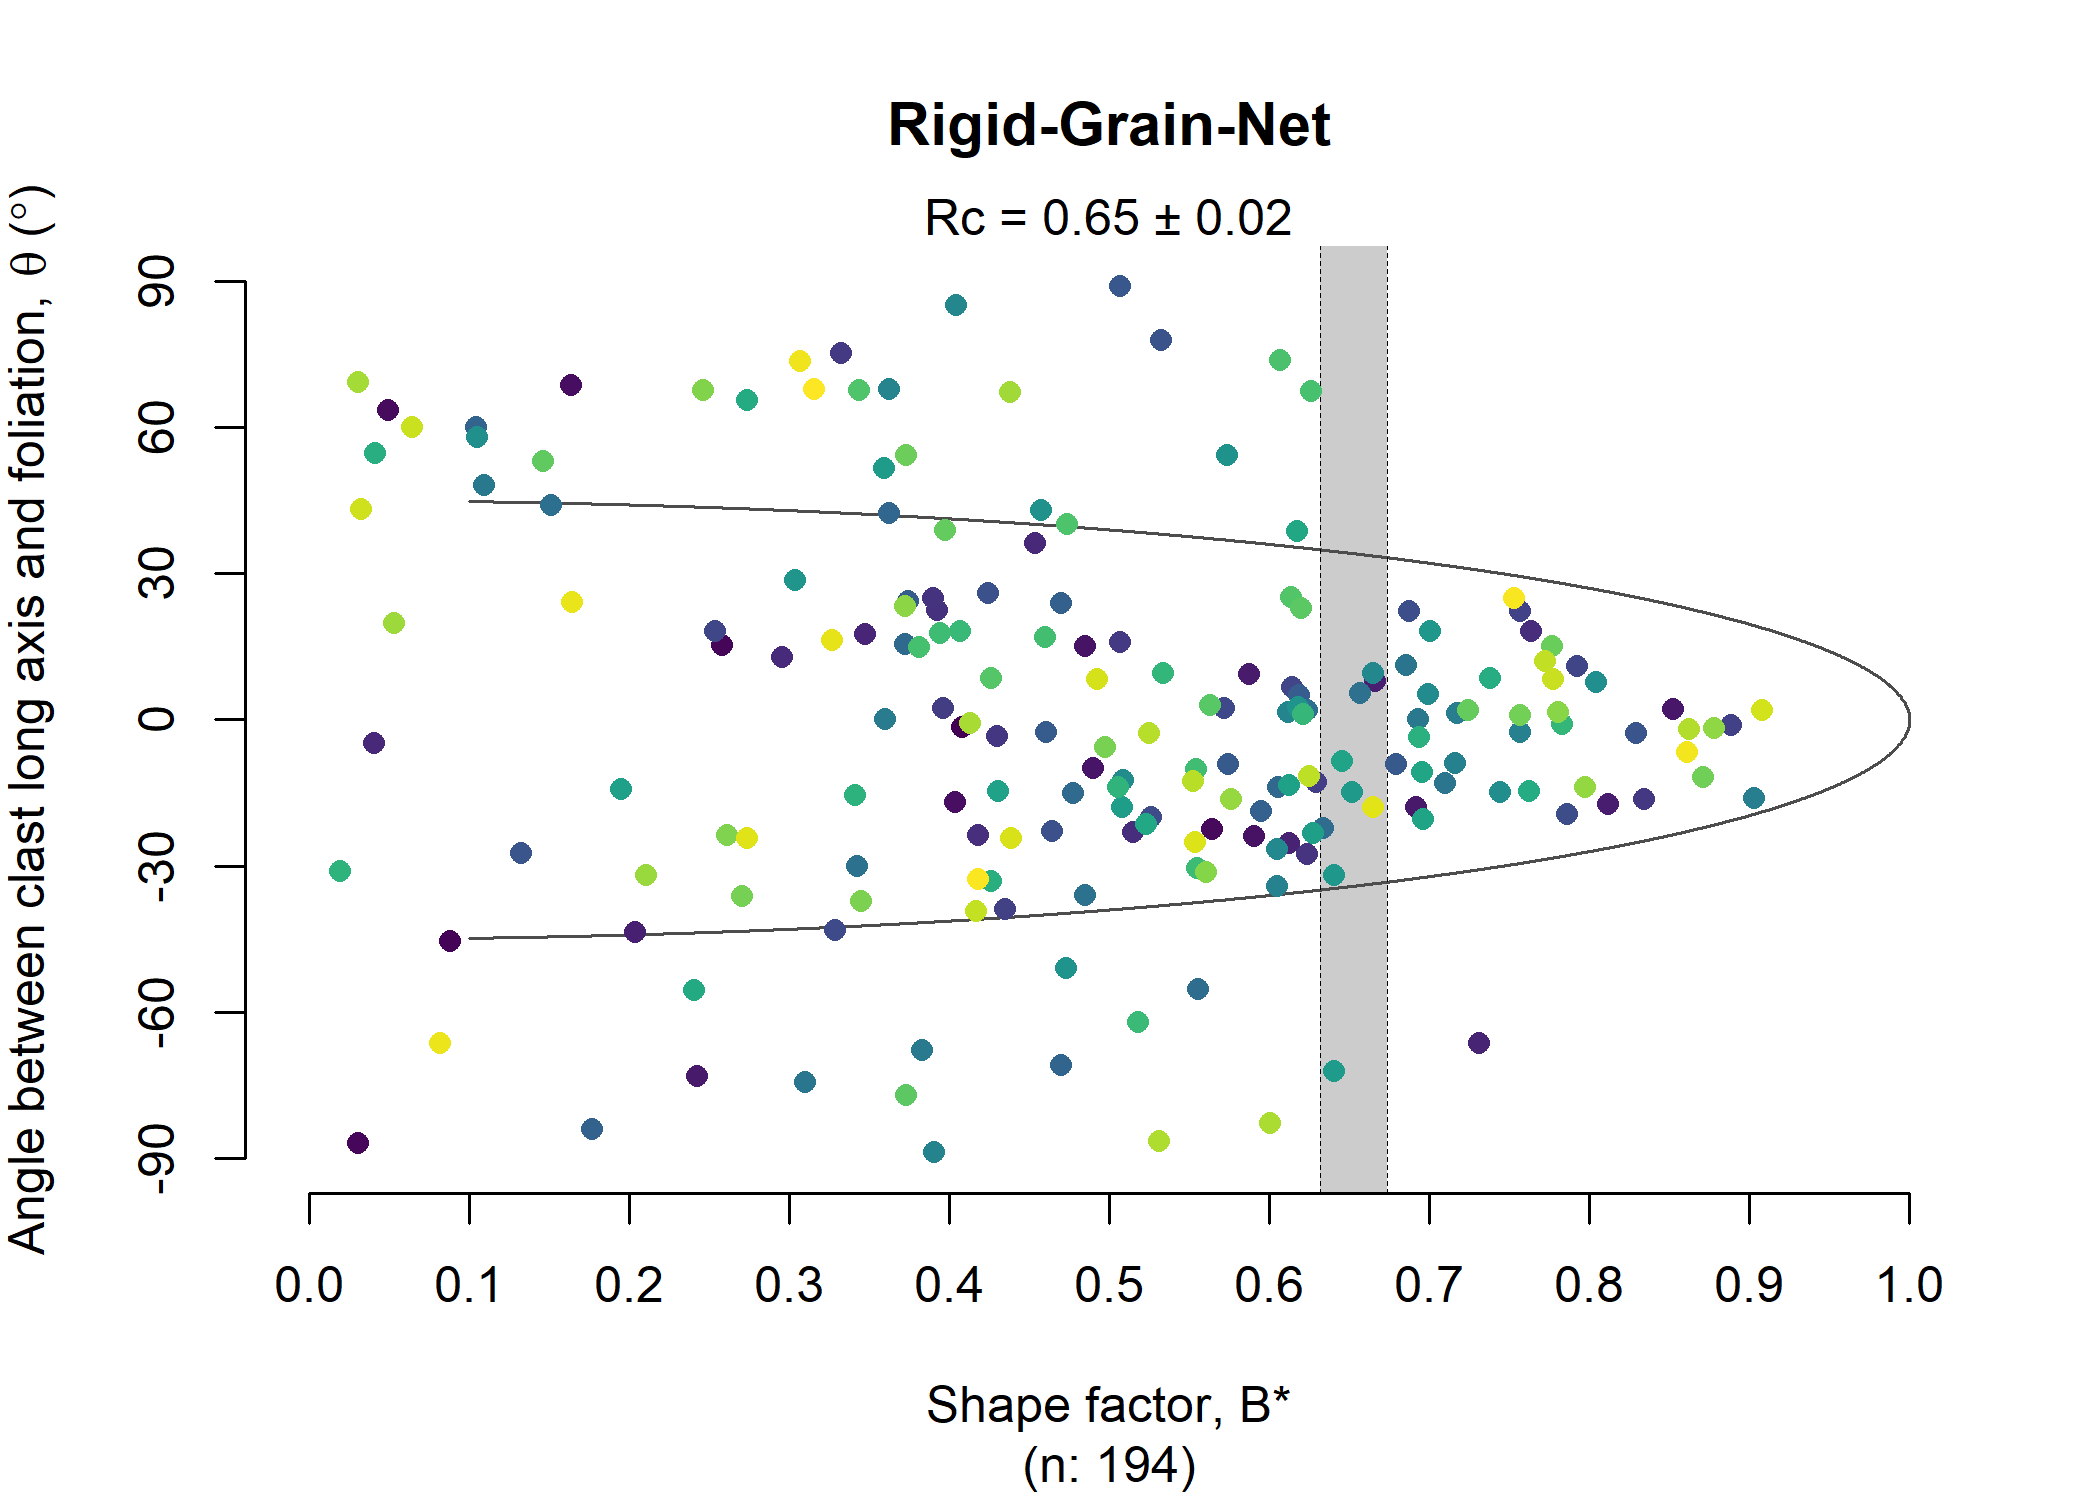
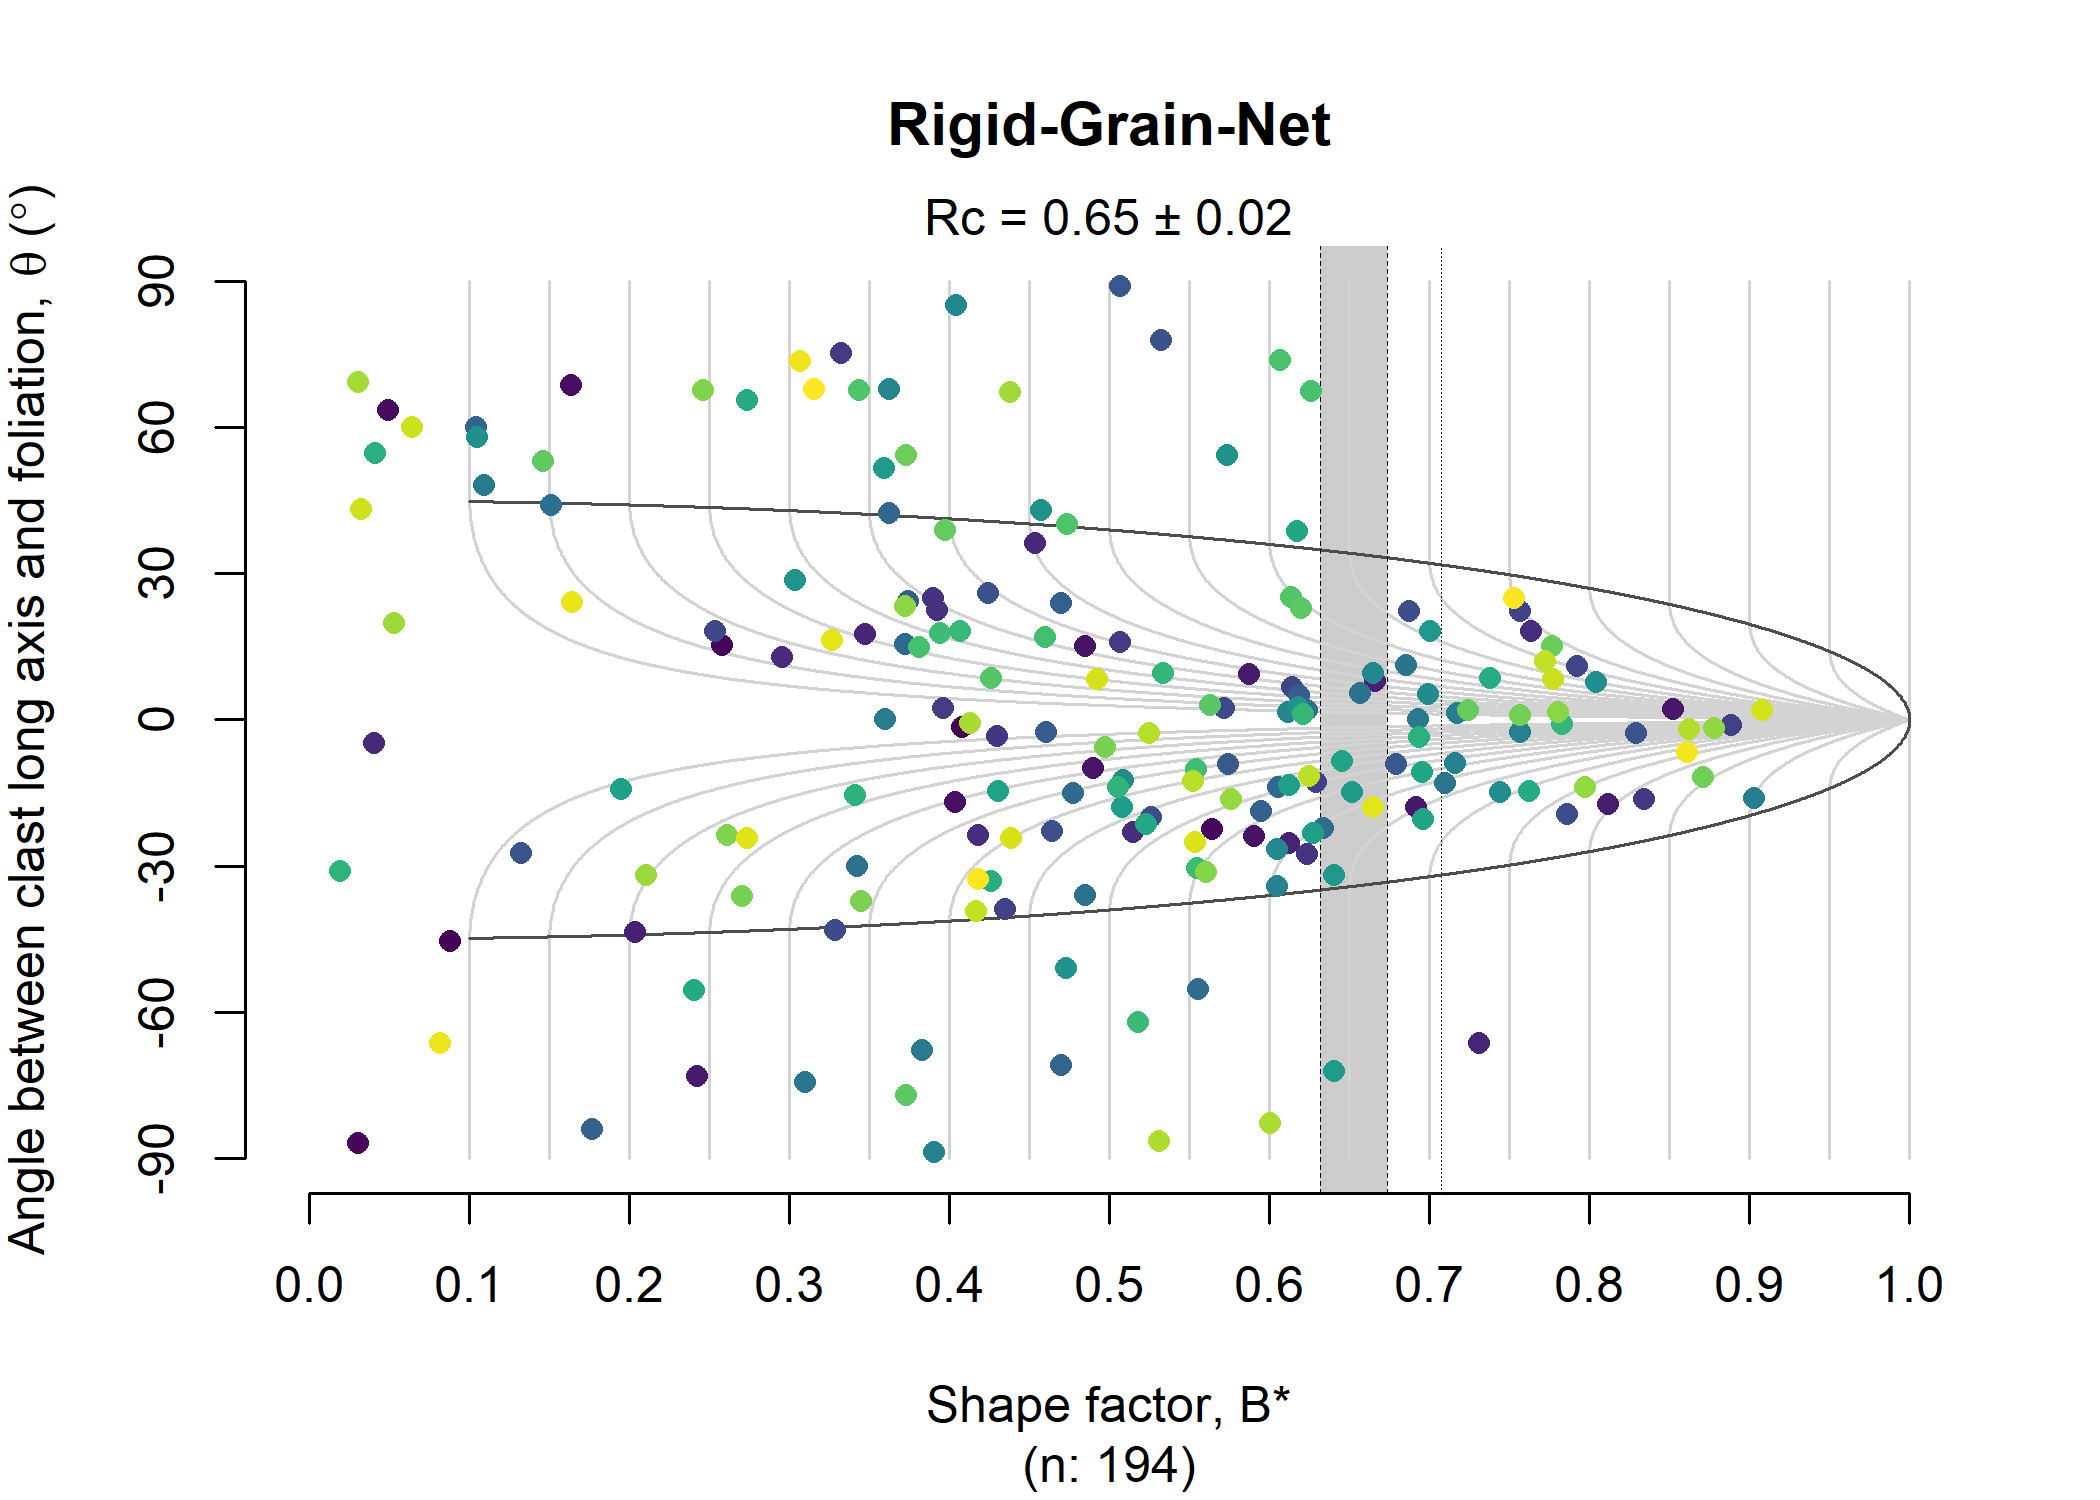
show grids in RGN

Changed region(s): [[0.3405, 0.3987, 0.9286, 0.552]]

diff --git a/README.md b/README.md
@@ -446,7 +446,7 @@ data(shebandowan)
 set.seed(20250411)
 
 # Color code porphyroclasts by size of clast (area in log-scale):
-RGN_plot(shebandowan$r, shebandowan$phi, col = assign_col(log(shebandowan$area)), pch = 16)
+RGN_plot(shebandowan$r, shebandowan$phi, col = assign_col(log(shebandowan$area)), pch = 16, guides = TRUE)
 ```
 
 <img src="man/figures/README-rgn-1.png" width="100%" />
